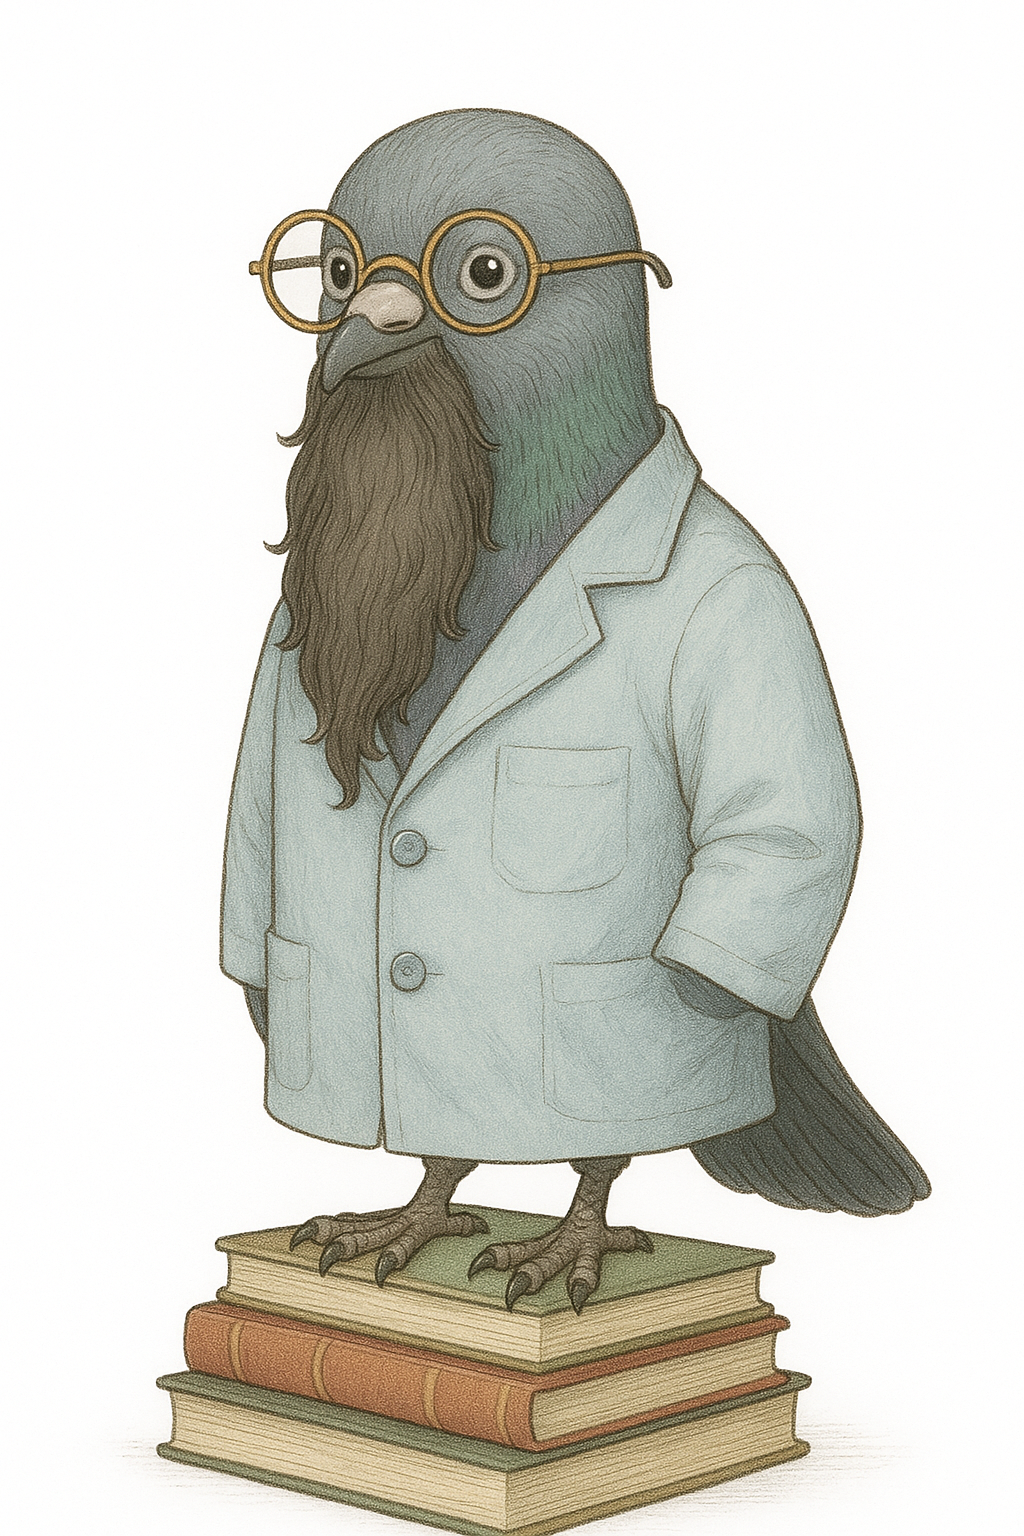
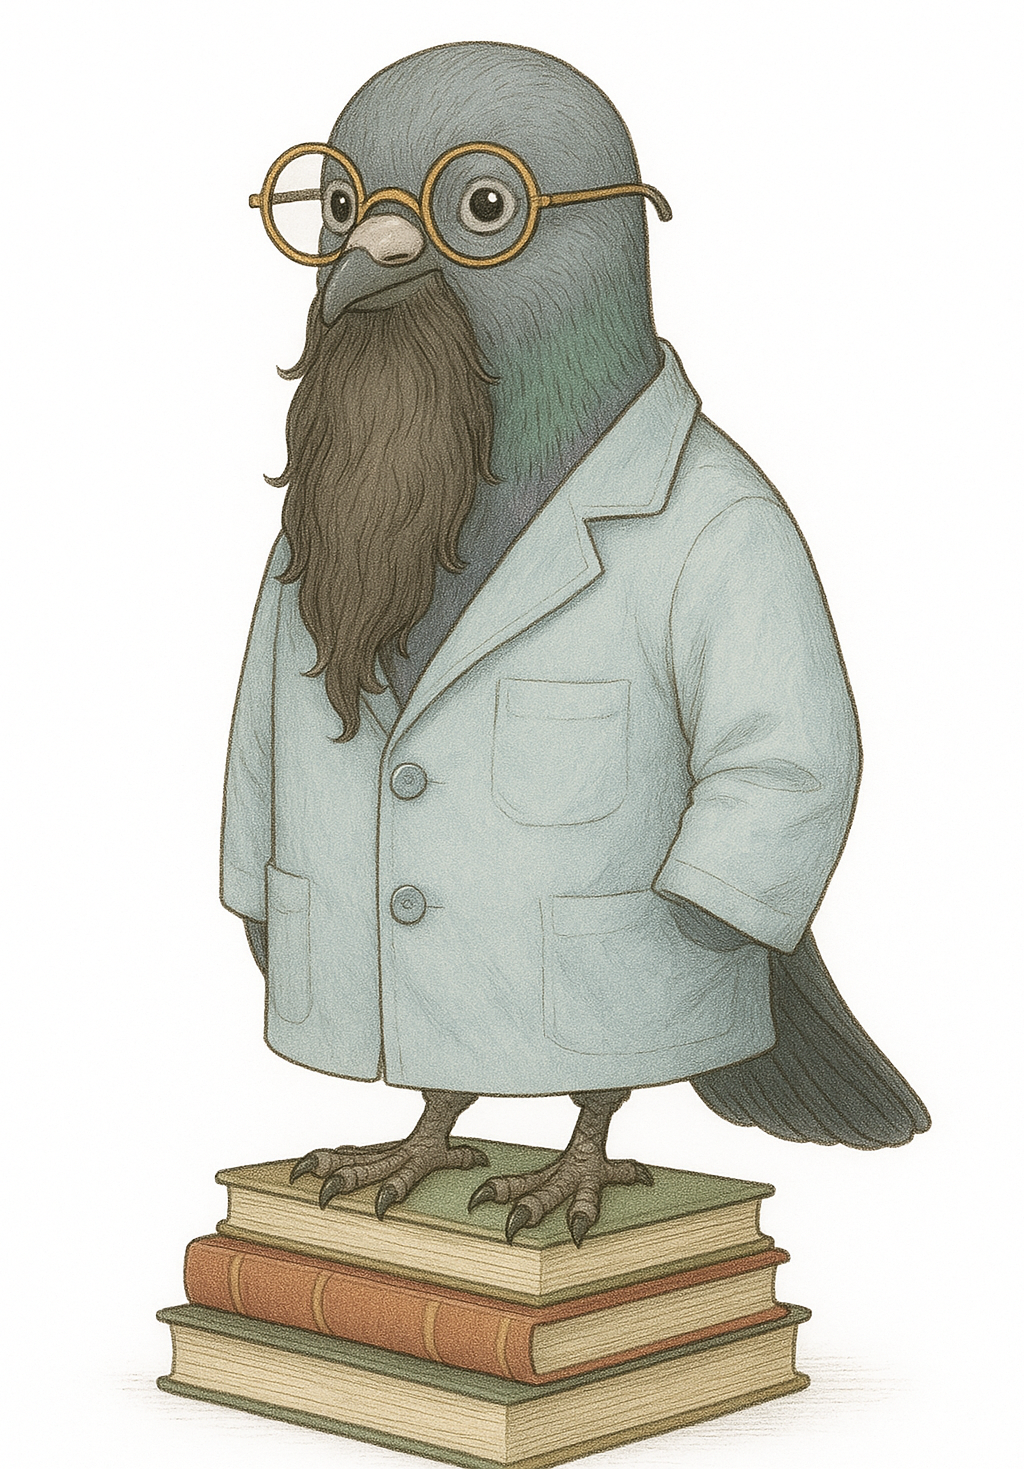
Updates

Changed region(s): [[0.1562, 0.0306, 0.9062, 1.0]]

diff --git a/2025/nerd-castle-proof-logging-for-subgraphs/talk.tex b/2025/nerd-castle-proof-logging-for-subgraphs/talk.tex
@@ -463,7 +463,7 @@
     \medskip\pause
 
     A billion problem instances solved using ``state of the art'' solver and \textsterling 20,000 of
-    supercomputer time.
+    supercomputer time (which used to be a lot, before ChatGPT came along).
 
     \medskip\pause
 
@@ -1479,7 +1479,7 @@ end pseudo-Boolean proof
     at (current page.north east) {
         \begin{minipage}[t]{0.4\paperwidth}\raggedright
             It turns out we do colour-class reasoning in each of these three places, although the
-            verifier actually doesn't need help with the first two.\\ \medskip
+            verifier doesn't actually need help for two of them.\\ \medskip
             In each case, we add together three non-adjacency constraints, divide by two, and then
             add the result to the solution-\\improving constraint.
         \end{minipage}
@@ -1743,27 +1743,52 @@ Combinatorial Optimisation, JAIR 77 (2023)}
     \end{center}
 \end{frame}
 
-\begin{frame}[fragile]{End-to-End Verification for Maximum Clique}\vspace*{-0.3cm}
+\begin{frame}[fragile,t]{End-to-End Verification for Maximum Clique}\vspace*{-0.3cm}
 \begin{Verbatim}[fontsize=\scriptsize]
 $ glasgow_clique_solver brock200_4.clq
 recursions = 56613
-omega = 17
-clique = 12 19 28 29 38 54 65 71 79 93 117 127 139 161 165 186 192
+clique = 17 (12 19 28 29 38 54 65 71 79 93 117 127 139 161 165 186 192)
 runtime = 0.02153s
-
+\end{Verbatim}
+\smallskip
+\begin{Verbatim}[fontsize=\scriptsize]
 $ glasgow_clique_solver brock200_4.clq --prove brock200_4
 runtime = 0.266475s
-
+\end{Verbatim}
+\smallskip
+\begin{onlyenv}<1>
+\begin{Verbatim}[fontsize=\scriptsize]
 $ veripb --stats brock200_4.opb brock200_4.pbp
 s VERIFIED BOUNDS 183 <= obj <= 183
 c statistic: time total: 15.31s
-
+\end{Verbatim}
+\end{onlyenv}\begin{onlyenv}<2>
+\begin{Verbatim}[fontsize=\scriptsize]
+$ time pboxide_veripb brock200_4.opb brock200_4.pbp
+s VERIFIED BOUNDS 183 <= obj <= 183
+real    0m1.740s
+\end{Verbatim}
+\end{onlyenv}
+\smallskip
+\begin{Verbatim}[fontsize=\scriptsize]
 $ cake_pb_clique brock200_4.clq > brock200_4.verifiedopb
-
+\end{Verbatim}
+\smallskip
+\begin{onlyenv}<1>
+\begin{Verbatim}[fontsize=\scriptsize]
 $ veripb --stats brock200_4.verifiedopb brock200_4.pbp --proofOutput brock200_4.corepb
 s VERIFIED BOUNDS 183 <= obj <= 183
 c statistic: time total: 17.28s
-
+\end{Verbatim}
+\end{onlyenv}\begin{onlyenv}<2>
+\begin{Verbatim}[fontsize=\scriptsize]
+$ time pboxide_veripb -e brock200_4.corepb brock200_4.verifiedopb brock200_4.pbp
+s VERIFIED BOUNDS 183 <= obj <= 183
+real    0m2.139s
+\end{Verbatim}
+\end{onlyenv}
+\smallskip
+\begin{Verbatim}[fontsize=\scriptsize]
 $ time cake_pb_clique brock200_4.clq brock200_4.corepb
 s VERIFIED MAX CLIQUE SIZE |CLIQUE| = 17
 real    0m2.260s
@@ -2397,6 +2422,22 @@ be mapped to $t$'s neighbours: \begin{align*}
         \end{minipage}
     };
 \end{tikzpicture}
+\begin{tikzpicture}[overlay,remember picture]
+    \node <3> [anchor=south east, yshift=0cm] at (current page.south east) {
+        \begin{minipage}[t]{0.25\paperwidth}\raggedright
+        \tiny ChatGPT, can you draw me a picture of a \\
+             sophisticated pigeon? \\
+        \includegraphics[scale=0.1]{sophisticatedpigeon.png}
+        \end{minipage}
+    };
+    \node <4> [anchor=south east, yshift=0cm] at (current page.south east) {
+        \begin{minipage}[t]{0.25\paperwidth}\raggedright
+        \tiny I think a sophisticated pigeon should have a monocle and a twirly mustache, rather
+            than glasses and a beard. \\
+        \includegraphics[scale=0.1]{monoclepigeon.png}
+        \end{minipage}
+    };
+\end{tikzpicture}%
 \end{frame}
 
 \begin{frame}[fragile]{Degree Reasoning in \veripb}
@@ -2422,7 +2463,8 @@ ia \textcolor{uofgpillarbox}{-1} : 1 ~xp\_t >= 1 ;                      \textcol
 \end{frame}
 
 \begin{frame}{Other Forms of Reasoning}
-    We can also log (almost) all of the other things state of the art subgraph solvers do:
+    We can also log (almost) all of the other things state of the art subgraph solvers do,
+    many of which do not involve pigeons:
 \begin{itemize}
 \item
   Conditional injectivity reasoning and filtering,
@@ -2568,7 +2610,80 @@ ia \textcolor{uofgpillarbox}{-1} : 1 ~xp\_t >= 1 ;                      \textcol
 \subsection{Bogaerts, Gocht, McCreesh, Nordstr\"om: Certified Dominance and Symmetry Breaking for
 Combinatorial Optimisation, JAIR 77 (2023)}
 
-\begin{frame}{Symmetries}
+\begin{frame}{Pattern Graph Symmetries}
+\begin{minipage}{0.6\paperwidth}
+    \begin{itemize}
+        \item If a solution exists, a solution where $C < D$ exists.
+        \item Might want to decide the constraint $C < D$ dynamically during search, or even to
+            change constraint to $F < E$ for different subproblems.
+        \item Enumeration proofs: ``unsatisfiable, except for all the solutions I listed''. But what
+            does it mean to count or enumerate solutions under symmetries?
+    \end{itemize}
+\end{minipage}\hfill\begin{minipage}{0.3\paperwidth}
+    \begin{center}
+    \begin{tikzpicture}
+        \node <1> [draw, circle, fill=white, inner sep=4pt, font=\bfseries] (Na) at (1,  0) {\vphantom{1}};
+        \node <1> [draw, circle, fill=white, inner sep=4pt, font=\bfseries] (Nb) at (1, -1.5) {\vphantom{1}};
+        \node <1> [draw, circle, fill=white, inner sep=4pt, font=\bfseries] (Nc) at (0, -3) {\vphantom{1}};
+        \node <1> [draw, circle, fill=white, inner sep=4pt, font=\bfseries] (Nd) at (2, -3) {\vphantom{1}};
+        \node <1> [draw, circle, fill=white, inner sep=4pt, font=\bfseries] (Ne) at (0, -4.5) {\vphantom{1}};
+        \node <1> [draw, circle, fill=white, inner sep=4pt, font=\bfseries] (Nf) at (2, -4.5) {\vphantom{1}};
+        \node at (Na) {A};
+        \node at (Nb) {B};
+        \node at (Nc) {C};
+        \node at (Nd) {D};
+        \node at (Ne) {E};
+        \node at (Nf) {F};
+
+        \draw [ultra thick] (Na) -- (Nb);
+        \draw [ultra thick] (Nb) -- (Nc);
+        \draw [ultra thick] (Nc) -- (Nd);
+        \draw [ultra thick] (Nb) -- (Nd);
+        \draw [ultra thick] (Ne) -- (Nf);
+        \draw [ultra thick] (Nc) -- (Ne);
+        \draw [ultra thick] (Nd) -- (Nf);
+    \end{tikzpicture}
+    \end{center}
+\end{minipage}%
+\end{frame}
+
+\subsection{Yang, Ge, Nguyen, Molitor, Moorman, Bertozzi: Structural Equivalence in Subgraph Matching. IEEE Trans. Netw. Sci. Eng. 10(4) (2023)}
+
+\begin{frame}{Target Graph (Conditional) Symmetries}
+    \begin{center}
+    \begin{tikzpicture}
+        \node <1> [draw, circle, fill=white, inner sep=4pt, font=\bfseries] (N1) at (0,  0) {\vphantom{1}};
+        \node <1> [draw, circle, fill=white, inner sep=4pt, font=\bfseries] (N2) at (1,  0) {\vphantom{1}};
+        \node <1> [draw, circle, fill=white, inner sep=4pt, font=\bfseries] (N3) at (2,  0) {\vphantom{1}};
+        \node <1> [draw, circle, fill=white, inner sep=4pt, font=\bfseries] (N4) at (3,  0) {\vphantom{1}};
+        \node <1> [draw, circle, fill=white, inner sep=4pt, font=\bfseries] (N5) at (0,  -1) {\vphantom{1}};
+        \node <1> [draw, circle, fill=white, inner sep=4pt, font=\bfseries] (N6) at (1,  -1) {\vphantom{1}};
+        \node <1> [draw, circle, fill=white, inner sep=4pt, font=\bfseries] (N7) at (2,  -1) {\vphantom{1}};
+        \node at (N1) {1};
+        \node at (N2) {2};
+        \node at (N3) {3};
+        \node at (N4) {4};
+        \node at (N5) {5};
+        \node at (N6) {6};
+        \node at (N7) {7};
+
+        \draw [ultra thick] (N1) -- (N2);
+        \draw [ultra thick] (N2) -- (N3);
+        \draw [ultra thick] (N3) -- (N4);
+        \draw [ultra thick] (N5) -- (N6);
+        \draw [ultra thick] (N6) -- (N7);
+        \draw [ultra thick] (N1) -- (N5);
+        \draw [ultra thick] (N2) -- (N6);
+    \end{tikzpicture}
+    \end{center}
+
+    \begin{itemize}
+        \item If $4$ removed from all domains dynamically during search (all pattern vertices of
+            degree $1$ already assigned elsewhere?), a symmetry appears.
+        \item If $3$ and $7$ removed, even more symmetries appear.
+        \item We can still count when exploiting target symmetries, but we now seem to need
+            non-trivial amounts of group theory to explain correctness efficiently.
+    \end{itemize}
 \end{frame}
 
 \subsection{McCreesh, Prosser: Finding Maximum $k$-Cliques Faster Using Lazy Global Domination, SoCS 2016}
@@ -2624,17 +2739,21 @@ Combinatorial Optimisation, JAIR 77 (2023)}
 \medskip
     Can ignore vertex 2b.
     \begin{itemize}\item Every neighbour of 2b is also a neighbour of 2.
+            \item Too expensive to detect upfront, so we catch it on backtrack instead.
     \end{itemize}
-\end{frame}
-
-\subsection{Yang, Ge, Nguyen, Molitor, Moorman, Bertozzi: Structural Equivalence in Subgraph Matching. IEEE Trans. Netw. Sci. Eng. 10(4) (2023)}
-
-\begin{frame}{Conditional Symmetries}
 \end{frame}
 
 \subsection{Kraiczy, McCreesh: Solving Graph Homomorphism and Subgraph Isomorphism Problems Faster Through Clique Neighbourhood Constraints, IJCAI 2021}
 
 \begin{frame}{Lemmas, Maybe?}
+    \begin{itemize}
+        \item If pattern vertex $P$ and its neighbourhood form a $5$-clique,
+            can't map to any vertex $T$ whose neighbourhood does not form at
+            least a $5$-clique.
+        \item Can combine all of the techniques discussed to justify this efficiently in terms of
+            work done, but only for a specific choice of $P$ and $T$.
+        \item Solvers can reuse clique computations, though\ldots
+    \end{itemize}
 \end{frame}
 
 \section{Conclusion}
@@ -2651,7 +2770,7 @@ Combinatorial Optimisation, JAIR 77 (2023)}
     \item Mixing RUP and explicit derivations makes proofs much easier to write.
     \item No need for a close coupling between how the solver works and how the proof system
         works.
-    \item <2-> ChatGPT is much better at drawing pigeons than it is at maths.
+    \item <2-> ChatGPT is somewhat better at drawing pigeons than it is at maths.
 \end{itemize}%
 \end{minipage}%
 \begin{tikzpicture}[overlay,remember picture]
